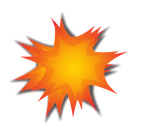
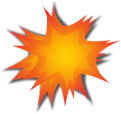
Lengthened flash message time. Using alternative explosion sprite for boss explosion. (Larger and fiery.)

Changed region(s): [[0.0, 0.0, 0.9917, 1.0]]

diff --git a/RAGE-Control/app/RAGE/Explosion.py b/RAGE-Control/app/RAGE/Explosion.py
@@ -12,18 +12,22 @@ explosionLifetime = .5
 
 class Explosion:
 
-	def __init__ (self, containers, screen, x, imageFile='explosion.png'):
+	def __init__ (self, containers, screen, x, imageFile='explosion.png', explosionType='normal'):
 		self._containers = containers
 		self._screen = screen
 		self._particles = []
 		self._x = x
 		self.timeStart = time.time()
-		self._imageFile = imageFile
+		self._explosionType = explosionType
+		if (self._explosionType is 'boss'):
+			self._imageFile = 'explosion2.png'
+		else:
+			self._imageFile = imageFile
 	
 	def addParticle (self):
 		if (len(self._particles) < maxParticles):
 			while (len(self._particles) < maxParticles):
-				self._particles.append(_ExplosionParticle(self._x.copy(), self._containers, self._screen, imageFile=self._imageFile))
+				self._particles.append(_ExplosionParticle(self._x.copy(), self._containers, self._screen, imageFile=self._imageFile, explosionType=self._explosionType))
 	
 	def timeElapsed (self):
 		return time.time() - self.timeStart
@@ -47,12 +51,17 @@ class Explosion:
 
 class _ExplosionParticle (Sprite):
 
-	def __init__ (self, loc, containers, screen, alpha=1., imageFile='explosion.png'):
+	def __init__ (self, loc, containers, screen, alpha=1., imageFile='explosion.png', explosionType='normal'):
 		v0 = numpy.array([random.uniform(-1,1), random.uniform(-1,1)])
 		v1 = v0 * particleSpeed
 		x0 = numpy.array([random.uniform(-30,30), random.uniform(-30,30)])
 		loc += x0
-		Sprite.__init__(self, containers, screen, imageFile=imageFile, size=(15,15), x=loc, v=v1)
+		if (explosionType is 'boss'):
+			self._imageFile = 'explosion2.png'
+			Sprite.__init__(self, containers, screen, imageFile=imageFile, size=(50,50), x=loc, v=v1)
+		else:
+			self._imageFile = imageFile
+			Sprite.__init__(self, containers, screen, imageFile=imageFile, size=(15,15), x=loc, v=v1)
 		self._a = numpy.array([0.,0.2])
 		self.alpha = alpha
 		# self._surface.set_colorkey((255,255,255))

diff --git a/RAGE-Control/app/RAGE/Bosses.py b/RAGE-Control/app/RAGE/Bosses.py
@@ -55,12 +55,12 @@ class Bosses:
 		boss.kill()
 		if (self.sound_on):
 			Sounds().Explode()
-		self.explosionList.append(Explosion.Explosion(self._containers, self._screen, numpy.array([centerX, centerY])))
+		self.explosionList.append(Explosion.Explosion(self._containers, self._screen, numpy.array([centerX, centerY]), explosionType='boss'))
 
 class _Boss (Sprite):
 
 	def __init__ (self, containers, screen, speed):
-		Sprite.__init__(self, containers, screen, imageFile='big_meteor.png', size=(150,150), wobble=0.)
+		Sprite.__init__(self, containers, screen, imageFile='big_meteor.png', size=(110,135), wobble=0.)
 		# self._surface.set_colorkey((255,255,255))
 		self._x = numpy.array([uniform(0., self._bounds[0]), 0.])
 		launchAngle = gauss(0, pi/4)

diff --git a/RAGE-Control/app/RAGE/HUD.py b/RAGE-Control/app/RAGE/HUD.py
@@ -24,7 +24,7 @@ class HUD:
 		self._details.set_bold(True) 
 		self._scoreHeaderPos = (5, 5)
 		self._scorePos = (5, 20)
-		self._flashPos = (200, 5)
+		self._flashPos = (200, 10)
 		self._hrHeaderPos = (0, 100)
 		self._hrPos = (0, 120)
 		self._headerTextColor = white
@@ -53,7 +53,7 @@ class HUD:
 			self._hrText = self._details.render(self.hr,True,self._headerTextColor)
 		if (flash is not None):
 			self.flash = flash
-			self.flashTime = 5
+			self.flashTime = 20
 			if (flashType is 'good'):
 				self._flashText = self._flashDetails.render(self.flash,True,self._goodTextColor)
 			elif (flashType is 'bad'):
